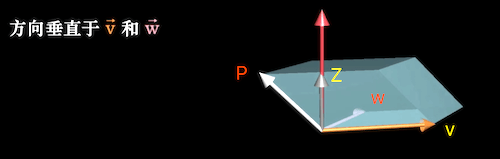
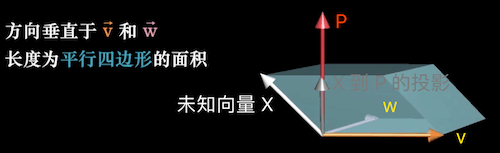
fix some confusing concept in dot product and multiplication cross  of vector

Changed region(s): [[0.33, 0.0523, 0.99, 0.9412], [0.0, 0.3137, 0.42, 0.4444], [0.0, 0.1046, 0.33, 0.2614]]

diff --git a/LinearAlgebra/Part0.md b/LinearAlgebra/Part0.md
@@ -30,9 +30,12 @@
   ![](images/vectorBase.png)
 
 - 向量空间的一个基是 **张成** 该空间的 **线性无关** 向量集
-  
 
-# 二、张成空间
+  
+
+  
+
+# 二、张成空间（向量的表达范围）
 
 ## 1. 概念
 
@@ -46,12 +49,16 @@
 ## 2. 线性相关
 
 - 线性相关：有多组向量构成张成空间，移除其中一个 **不减少** 张成空间的大小
-线性无关： 所有向量 给张成空间增添了新的维度
+  线性无关：所有向量 给张成空间增添了新的维度
 
 - 线性相关：多组向量中，有向量 = 其他向量的线性组合
   ![](images/linear.png)
-  
+
 - 齐次向量：表示同一条直线的一类向量
+
+  
+
+  
 # 三、线性变换（矩阵）
 
 ## 1. 概念
@@ -98,17 +105,20 @@
 
 
 
-# 四、行列式（面积变化比例）
+
+
+# 四、行列式（面积/体积）
 
 ## 1. 概念
 
-- 表示：区域 **面积** 线性变换后增大和减小的 **比例**
+- 二维表示：二维行列式中两个二维向量构成的 **面积**
   **符号取决于** 区域是否发生了翻转变换（翻转为 负）
   行列式的值与所选坐标系无关
   ![](images/determinant.png)
 
-- 表示：区域 **体积** 线性变换后增大和减小的 **比例**
+- 三维 表示：三维行列式中三个三维向量构成的 **体积**
   **符号取决于** 构成矩阵的这三个向量**是否满足右手定则**（不满足为 负）
+
   ![](images/determinant3.png)
 ## 2. 特殊情况
 
@@ -125,9 +135,13 @@
 ## 3. 公式
 
 - ![](images/determinant5.png)
-  
+  
 
-#五、矩阵和线性方程组
+  
+
+  
+
+#五、矩阵和线性方程组（计算工具）
 
 ## 1. 线性方程组 转 矩阵
 
@@ -191,9 +205,7 @@
 
 
 
-
-
-##7. 正交矩阵
+##7. 正交矩阵（专置 = 逆）
 
 - 定义：若 M 正交矩阵，则 $MM^T = I_{单位矩阵} \Rightarrow M^T = M^{-1}$
 - 几何意义：矩阵每 行/列 向量互相垂直，矩阵每 行/列 向量都是单位向量
@@ -202,11 +214,12 @@
 ## 8. 非方阵
 
 - 3 X 2 矩阵的几何意义：将 **二维** 空间映射到 **三维**空间上
-  
-  
 
 
-# 六、向量的点积（投影）
+
+
+
+# 六、向量的点积（两向量的夹角）
 
 ##1. 概念
 - 数学计算，遵循乘法交换律（都是长度乘长度）
@@ -219,39 +232,50 @@
   \color{green}{3} \\  \color{red}{4} \\ 
   \end{bmatrix} = \color{green}{1} \cdot \color{green}{3} + \color{red}{2} \cdot \color{red}{4}
   $$
-  
-- 特殊的点积
-  两个单位向量的点积 = 这个两个向量夹角 $\theta$ 的 $cos\theta$
+
+- **点积的实际作用**：
+  两个单位向量的点积 = 这个两个向量夹角 $\theta$ 的 $cos\theta$
   $||\vec v|| 是 \vec v 的长度，如果 \vec v是单位向量，||\vec v|| = 1$
   $$
   \vec v \cdot \vec k = ||\vec v|| \cdot ||\vec k|| \cdot cos\theta
   $$
-  
+
 - 几何解释
+  **W 点积 V = W 到 V 的投影的长度 * V 的长度**
   V * W > 0 方向相同
   V * W < 0 方向反相
   V * W = 0 互相垂直
-  **W** 到 V 的投影的长度 * V 的长度
+
   ![](images/dot1.png)
 
 
-##2. 通过线性变换理解点积
+##2. 点积可以是一种线性变换
 1. 二维向量 线性变换到 一维向量
-
-  `基向量 X: (0, 1) -> 1`
-  `基向量 Y: (1, 0) -> -2`
-
+  例：设，二维向量（4，3）【基向量为（1，1）】
+  经过基向量变化（1，-2）到一维向量上为 -2【基向量为（1，-2）】
+  则，点积的过程可以看作 维度由高到底的 线形变换
+  $$
+  \begin{align}
+  M_{1\times 2 矩阵} \cdot v_{前} &= N_{点积结果} \\
+  V_{点积用向量} \cdot v_{前} &= N_{点积结果} \\
+  M_{1\times 2 矩阵} &= V_{点积用向量}
+  \end{align}
+  $$
   ![](images/dot2.png)
 
-2. 利用对称性，二维平面上一个向量 u，变换到 一维的一条线上
+2. 进一步说明
+  有时，为求由高维到低维的 1 X 2 变换矩阵 M $\begin{bmatrix}u_x & u_y\end{bmatrix}$
+  一维上的一个向量 u，到基坐标 j 的正交投影值 $u_y$ ，利用对称性可知：
+   $u_y$ 等价于 基坐标 j 到 向量 u 上的正交投影值，即
+   $u_y$ 等价于 就是变换矩阵M 的 y 值
   ![](images/dot4.png)
 
-3. 上述 1- 2 情况下，矩阵A * 向量B == 向量C * 向量B
-  向量B 和 向量C 的**点积的值**可以用 向量B 到 C 的投影值 和 向量 C 的值的积求出
-  ![](images/dot3.png)
+3. 结论
 
-4. 综上，矩阵A 这样的由二维到一维的线性变换过程 可以用 向量C 表示，并且 **矩阵A 和 向量C** 一一对应
+  1 X 2 矩阵M 这样的由二维到一维的线性变换过程 可以用 向量 m 表示，并且 **矩阵M 和 向量m** 一一对应
   ![](images/dot5.png)
+
+
 
 
 
@@ -260,20 +284,28 @@
 
 ## 1. 概念
 
-- 叉乘计算：求两个向量组合成的矩阵的行列式值（矩阵的转置矩阵不改变行列式的值）
+- 叉乘的计算方法：
+  两个向量组合成的矩阵的**行列式值 det**（矩阵的转置矩阵不改变行列式的值）
+
   ![](images/cross1.png)
 
-- 几何意义：叉乘的两个向量的面积（叉乘和方向有关， **不遵循交换律**）
-  正方向：右边向量 X **左边向量**
-  反方向：**左边向量** X 右边向量
+- 叉乘的几何意义：
+  叉乘的两个向量组合成的平行四边形面积（面积也有负，取决于叉乘的顺序）
+
+  > 叉乘和方向有关， **不遵循交换律**
+  > 正方向：右边向量 X **左边向量**
+  > 反方向：**左边向量** X 右边向量
+
   ![](images/cross.png)
 
-- 实际作用：通过 2 个三维向量生成 1 个**新的三维向量**
-  **叉乘的结果是一个向量**
+- **叉乘的实际作用**：
+  二维空间：通过 2 个向量叉乘得到这 2 个向量构成的面积
+  三维空间：通过 2 个向量叉乘得到 1 个**垂直于这两个向量平面的向量**
+
   ![](images/cross2.png)
 
-- 公式
-  
+- 三维空间叉乘公式（特殊的行列式求法）
+  其中 $({\hat x},{\hat y},{\hat z})$ 为基向量
   $$
   \begin{bmatrix} 
   \color{green}{v_1} \\  \color{red}{v_2} \\ \color{blue}{v_3}\\ 
@@ -302,19 +334,24 @@
   \end{bmatrix} 
   \end{pmatrix}
   \\ \Downarrow \\
+  \begin{align}
   \color{#F80}{\overrightarrow V} \times \color{#F0F}{\overrightarrow W}
-  = 
+  &= 
   \color{green}{\hat x}(\color{#F80}{v_2} \cdot  \color{#F0F}{w_3} - \color{#F80}{v_3}\cdot \color{#F0F}{w_2}) + 
   \color{red}{\hat y}(\color{#F80}{v_3} \cdot  \color{#F0F}{w_1} - \color{#F80}{v_1}\cdot \color{#F0F}{w_3}) + 
-  \color{blue}{\hat z}(\color{#F80}{v_1} \cdot  \color{#F0F}{w_2} - \color{#F80}{v_2}\cdot \color{#F0F}{w_1})
+  \color{blue}{\hat z}(\color{#F80}{v_1} \cdot  \color{#F0F}{w_2} - \color{#F80}{v_2}\cdot \color{#F0F}{w_1})\\
+  &= \overrightarrow S_{垂直于V 和 W 构成的平面}
+  \end{align}
   $$
 
 
 
 
-## 2. 通过线性变换理解叉乘
+## 2. 三维空间中叉乘的线性变换解释
 
-1. 通过第一列的向量的**三个坐标得到一个行列式的值**，构造 三维空间 到 一维空间的**线性变换**（由于，所以是线性变换）关系
+1. 构造 三维 到 一维的**线性变换**
+   函数：由第一列的向量的三个坐标做变量，v 和 w 向量值固定，得到一个行列式的值（三个向量构成的六面体的体积）
+
    ![](images/cross5.png)
 
 2. 由于函数线性，就会存在一个 1 X 3 矩阵来代表这个变换
@@ -353,16 +390,29 @@ z & \color{green}{v_3} & \color{#F80}{w_3} \\
 \color{red}{p_1} = \color{green}{v_2} \cdot  \color{#F80}{w_3} - \color{green}{v_3}\cdot \color{#F80}{w_2} \\
 \color{red}{p_2} = \color{green}{v_3} \cdot  \color{#F80}{w_1} - \color{green}{v_1}\cdot \color{#F80}{w_3} \\
 \color{red}{p_3} = \color{green}{v_1} \cdot  \color{#F80}{w_2} - \color{green}{v_2}\cdot \color{#F80}{w_1}
+\\ \Downarrow \\
+\overrightarrow P = \overrightarrow V \times \overrightarrow W
 $$
 
-4. P * 未知向量  == 未知向量、V、W 确定的平行六面体的体积
-   ![](images/cross3.png)
-5. P * 未知向量 == Z 的长度（P 在 z 轴投影）* P 的长度（见 六.1）
-6. 联立 4、5 结果可得：
-   P 的长度 == V、W 确定的平行四边形面积 == V、W 的叉乘
-   ![](images/cross4.png)
+4. 假设 空间内有一向量 P 垂直于 v 和 w 构成的平行四边形 F，且 P 的长度为 F 的面积
+  $$
+  \begin{align} \\
+    P \cdot x  &= x 在 P 的投影 \times P 的长度（见 六.1）\\
+    &= X 在 P 的投影 \times F_{v 和 m 构成的平行四边形面积} \\
+    &= x, w, v 构成的六面体的体积
+    \end{align}
+  $$
+  ![](images/cross4.png)
 
-#八、基变换
+5. 由 3 得 P 为 向量 V 和 W 的叉乘结果
+   由 4 得 存在 P‘ 垂直于 向量 V 和 W 构成的平面
+   由 2 得 P 和 P’ 一一对应（见 六、2.3）
+
+   
+
+
+
+#八、基变换（坐标系转换）
 
 ##1. 概念
 
@@ -370,59 +420,42 @@ $$
 - 变换前提：同一原点
 - 几何意义：实现 **同一个向量** 在不同 **基向量（坐标系）**下的转换
 
+  > 例，一个模型上的点都是基于模型上原点的偏移量 A（此时模型原点值是 M（ 0，0，0））
+  > 当把模型放到世界中，移动模型时，模型上的原点是基于世界原点的偏移量（此时模型原点值是 N（ x，y，z），基坐标已经变化）
+  > 此时求得：模型的点在世界坐标的值 = 偏移量 A + 模型原点在世界坐标的值 N
+
 ##2. 不同坐标系的互相转换
 
-- 本质：变换后的向量原来由基向量构成的线性组合不变，但使用新的基向量
-- 目标 1：A 坐标系的向量 v 转 B 坐标系的向量 w
-- 公式 1：矩阵左乘法（三、2）
-  向量 v：A 坐标系中的向量（输入）
-  向量 w：**B 坐标系中**对应 A 坐标系的向量（输出）
-  矩阵 M：A 坐标系的基向量在 B 坐标系的表示
-  $$
-    \begin{align}
-    \overrightarrow M \cdot \overrightarrow v &= \overrightarrow w \\
-    \overrightarrow v &= {\overrightarrow M}^{-1} \cdot \overrightarrow w \\ \\
-    \begin{bmatrix} 
-    \color{green}{a_x} & \color{red}{b_x}\\ 
-    \color{green}{a_y} & \color{red}{b_y}\\
-    \end{bmatrix} \cdot 
-    \begin{bmatrix} 
-    v_1 \\ v_2\\ 
-    \end{bmatrix} 
-    &= 
-    \begin{bmatrix} 
-    w_1 \\ w_2\\ 
-    \end{bmatrix} \\ 
-    \begin{bmatrix} 
-    v_1 \\ v_2\\ 
-    \end{bmatrix} 
-    &= 
-    { \begin{bmatrix} 
-    \color{green}{a_x} & \color{red}{b_x}\\ 
-    \color{green}{a_y} & \color{red}{b_y}\\
-    \end{bmatrix} 
-    }^{-1}\cdot 
-    \begin{bmatrix} 
-    w_1 \\ w_2\\ 
-    \end{bmatrix} \\
-    \end{align}
-  $$
-  
-- 目标 2： B 坐标系的线性变换（矩阵 P）转 A 坐标系的线性变换（矩阵 Q）
+本质：变换后的向量原来由基向量构成的线性组合不变，但使用新的基向量
 
-- 公式 2：矩阵与矩阵相乘（三、3）
-  向量 v： A 坐标系中的向量（输入）
-  向量 w：A 坐标系中对应 B 坐标系中的线性变换（矩阵 P）后的结果（输出）
+目标 1：A 坐标系的向量 v 转 B 坐标系的向量 w
+
+- 公式 1：矩阵左乘法（三、2）
+  向量 v：A 坐标系中的向量
+  向量 w：向量 v 在**B 坐标系中**对应的向量
   矩阵 M：A 坐标系的基向量在 B 坐标系的表示
-  矩阵 P：向量 v 在 B 坐标系的线性变换（这种线性变换矩阵直接转成对应的坐标系矩阵没有意义）
   $$
   \begin{align}
-  \overrightarrow M^{-1} \cdot 
-  \color{red}{\overrightarrow P} \cdot 
-  \color{red}{\overrightarrow M} \cdot 
-  \overrightarrow v &= \overrightarrow w \\
-  \overrightarrow Q \cdot 
-  \overrightarrow v &= \overrightarrow w \\
+  \overrightarrow M_{ab} \cdot \overrightarrow v_a &= \overrightarrow w_b \\
+  \overrightarrow v_a &= {\overrightarrow M_{ab}}^{-1} \cdot \overrightarrow w_b
+  \end{align}
+  $$
+  
+目标 2： B 坐标系的线性变换（矩阵 P）转 A 坐标系的线性变换（矩阵 Q）
+
+- 公式 2：矩阵与矩阵相乘（三、3）
+  向量 v： A 坐标系中的向量
+  向量 w：向量 v 的在 B 坐标系线性变换后的在 A 坐标系的结果
+  矩阵 M：A 坐标系的基向量在 B 坐标系的表示
+  矩阵 P：向量 v 在 B 坐标系的线性变换
+  $$
+  \begin{align}
+  \overrightarrow M^{-1}_{ba} \cdot 
+  \color{red}{\overrightarrow P_b} \cdot 
+  \color{red}{\overrightarrow M_{ab}} \cdot 
+  \overrightarrow v_a &= \overrightarrow w_a \\
+  \overrightarrow Q_a \cdot 
+  \overrightarrow v_a &= \overrightarrow w_a \\
   \end{align}
   $$
 
@@ -435,7 +468,7 @@ $$
 
 - 几何意义：
   特征向量：向量在 **线性变换前后** 向量的 **张成空间（二、1）不变**（与所选坐标系无关）
-  特征值：特征向量 线性变换**后 **的长度 / 线性变换**前** 的长度，向量翻转时特征值为负
+  特征值：$特征值 = {特征向量线性变换后的长度 \over 特征向量线性变换前的长度}$，向量翻转时特征值为负
 - 特殊情况：
   部分旋转的线性变换 **没有特征值和特征向量**
   属于单个特征值的特征向量可能不止在一条线上
@@ -508,6 +541,14 @@ $$
     0 & \color{red}{2}\\
     \end{bmatrix}
   $$
+
+
+
+
+
+
+
+
 
 
 
